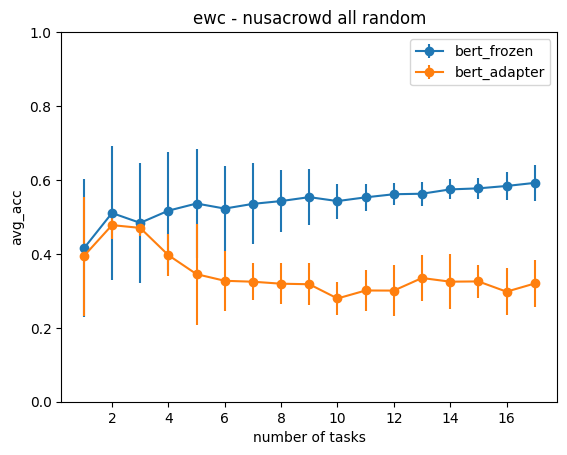
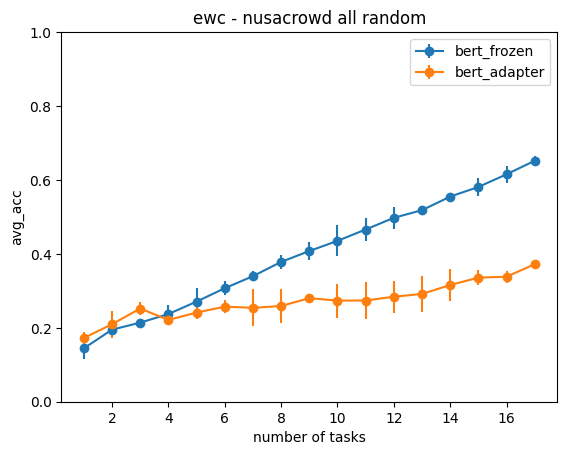
update vix for each settings

Changed region(s): [[0.1199, 0.3385, 0.9594, 0.8], [0.7795, 0.5538, 0.8095, 0.5846]]

diff --git a/src/utils.py b/src/utils.py
@@ -553,7 +553,10 @@ def calculate(dataframe, type):
 
 def create_viz(list_dataframe, title, legend, xlabel, ylabel, filename, list_exp_id):    
     for dataframe in list_dataframe:
-        plt.errorbar([(i+1) for i in range(len(dataframe))], calculate(dataframe, "avg"), calculate(dataframe, "std"), fmt ='o-')
+        if 'mtl' in filename or 'one' in filename:
+            plt.errorbar([(i+1) for i in range(len(dataframe))], calculate(dataframe, "avg"), calculate(dataframe, "std"), fmt ='o')
+        else:
+            plt.errorbar([(i+1) for i in range(len(dataframe))], calculate(dataframe, "avg"), calculate(dataframe, "std"), fmt ='o-')
     
     plt.title(title.replace('_.txt', ''))
     plt.xlabel(xlabel)
@@ -677,10 +680,10 @@ if __name__ == "__main__":
     #         visualize('', row['exp_id'], f"res/til_classification/nusacrowd/{row['exp_id']} - {row['backbone']}_{row['baseline']}_.txt/{row['backbone']}_{row['baseline']}_.txt", 'nusacrowd_all_random', 'nusacrowd')
     
     # create viz for backbone and baseline combination
-    # run_create_viz(['bert_frozen', 'bert'], 'one', 'nusacrowd all random')
+    run_create_viz(['bert_frozen'], 'kan', 'nusacrowd all random')
     
     # recalculate an experiment
     # calculate_metrics(81, 'bert_adapter', 'a-gem')
     
     # recalculate all experiments        
-    calculate_metrics(list_exp.iterrows())
+    # calculate_metrics(list_exp.iterrows())
